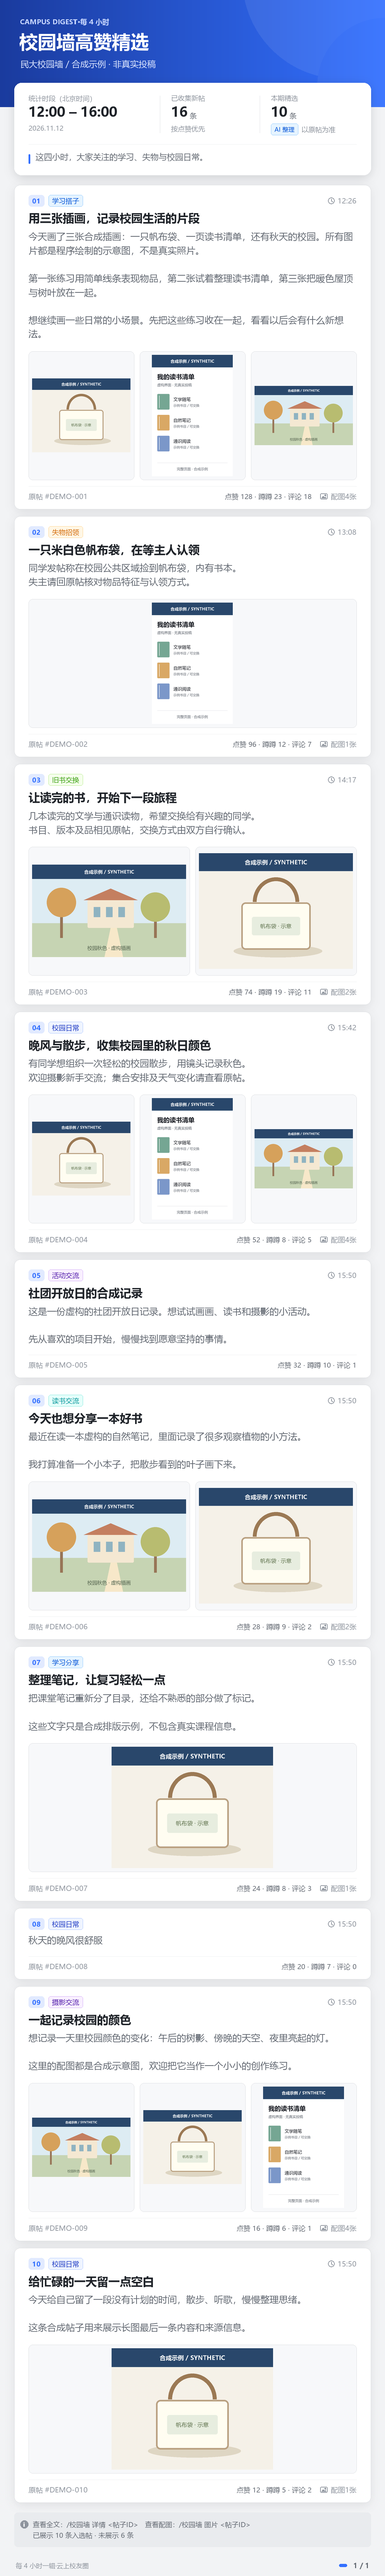
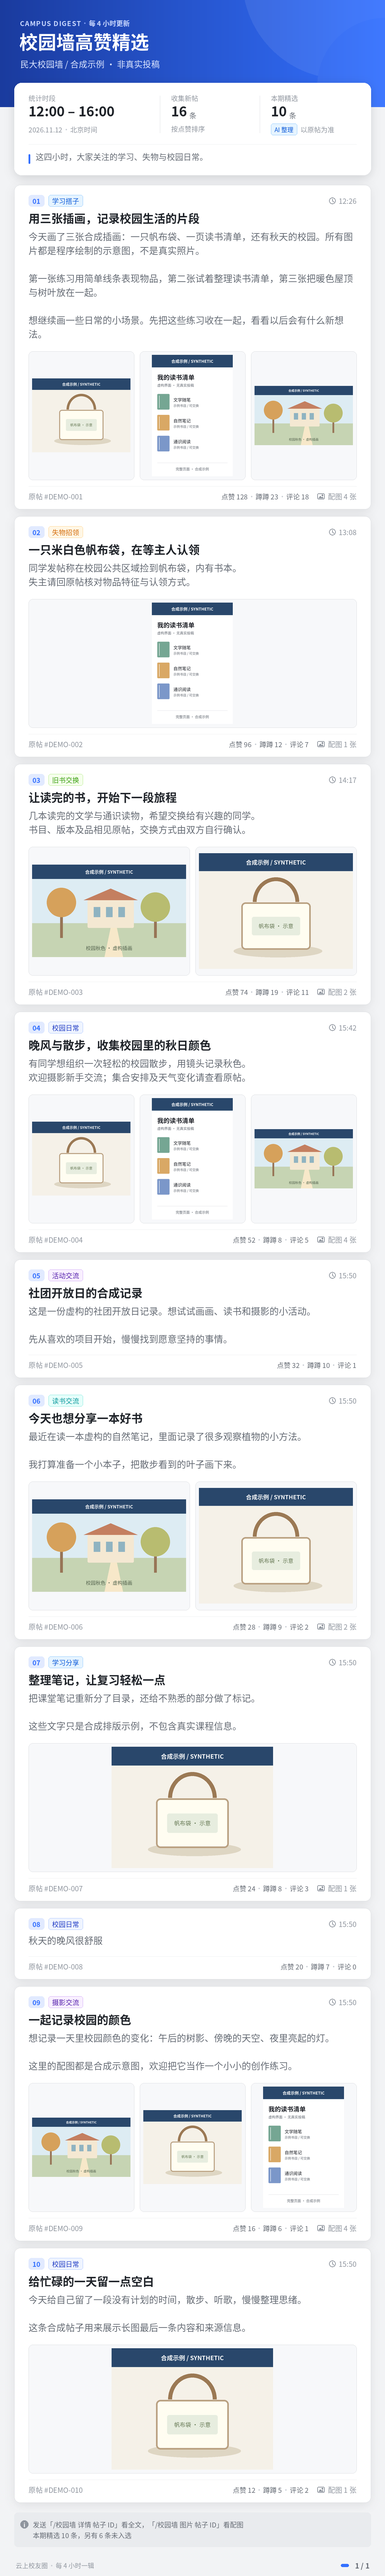
style: refine card typography and copy
- Draw " · " separators as small light dots with even gaps; the SC face
  renders every middle dot full-width
- Letter-space all-caps Latin labels; space CJK from digits/Latin
- Tighten labels and notices (按点赞排序, 「」 around commands, 另有 N 条
  未入选 only when posts were left out)
- Align command labels and commands in the mini-program code panel

diff --git a/cards.py b/cards.py
@@ -82,6 +82,17 @@ _TAG_KEYWORDS = (
     (("兼职", "实习", "招聘"), "cyan"),
 )
 _TAG_FALLBACK = ("geekblue", "cyan", "purple", "green", "blue")
+_SEP = " · "
+
+
+def _caps(text):
+    return text.isascii() and text.isupper() and len(text) > 1
+
+
+
+_SEP_WIDTH = 22  # 9px gap, 4px dot, 9px gap.
+_DOT = "#C9CDD4"
+_TRACKING = 1.5
 _AVATAR_COLORS = ("blue", "cyan", "green", "purple", "magenta", "orange", "geekblue", "volcano")
 _OPENING = frozenset("（【《〈「『〔［｛“‘([{«")
 _CLOSING = frozenset("，。！？；：、）】》〉」』〕］｝”’…,.!?;:)]}»")
@@ -424,6 +435,16 @@ class _Metrics:
     def length(self, text, size, bold=False):
         return self.font(size, bold).getlength(text) / _SCALE
 
+    def tracked(self, text, size, bold=False):
+        """Latin caps get letter spacing; CJK keeps the font's own spacing."""
+        if not _caps(text):
+            return self.length(text, size, bold)
+        return self.length(text, size, bold) + _TRACKING * max(0, len(text) - 1)
+
+    def meta_length(self, text, size, bold=False):
+        parts = text.split(_SEP)
+        return sum(self.tracked(part, size, bold) for part in parts) + _SEP_WIDTH * (len(parts) - 1)
+
 
 class _Canvas(_Metrics):
     """Native-resolution long canvas with anti-aliased text and local shadows."""
@@ -501,12 +522,40 @@ class _Canvas(_Metrics):
         """Initial-letter avatar; a 4x mask keeps the circle edge smooth at 1x."""
         initial = name[:1] or "同"
         _, _, color = _TAGS[_AVATAR_COLORS[sum(map(ord, name)) % len(_AVATAR_COLORS)]]
-        size = 2 * radius
+        self.disc(cx, cy, 2 * radius, color)
+        self.text((cx, cy), initial, round(radius * 0.95), "#FFFFFF", bold=True, anchor="mm")
+
+    def disc(self, cx, cy, diameter, color):
+        """Anti-aliased small circle: 4x mask, downsampled, at native scale."""
+        size = max(2, round(diameter))
+        x, y = round(cx - size / 2), round(cy - size / 2)
         with Image.new("L", (size * 4, size * 4), 0) as big:
             ImageDraw.Draw(big).ellipse((0, 0, size * 4 - 1, size * 4 - 1), fill=255)
             with big.resize((size, size), Image.LANCZOS) as mask:
-                self.image.paste(color, (cx - radius, cy - radius, cx + radius, cy + radius), mask)
-        self.text((cx, cy), initial, round(radius * 0.95), "#FFFFFF", bold=True, anchor="mm")
+                self.image.paste(color, (x, y, x + size, y + size), mask)
+
+    def meta(self, xy, text, size, fill=_TEXT_3, bold=False, anchor="lm", dot=_DOT):
+        """Metadata row: " · " separators become small drawn dots with even gaps.
+
+        The SC face draws every middle dot full-width, which spaces rows unevenly.
+        ``anchor`` is "lm", "mm" or "rm"; segments are drawn left to right.
+        """
+        x, y = xy
+        width = self.meta_length(text, size, bold)
+        x -= {"l": 0, "m": width / 2, "r": width}[anchor[0]]
+        for index, part in enumerate(text.split(_SEP)):
+            if index:
+                self.disc(x + _SEP_WIDTH / 2, y + 1, 4, dot)
+                x += _SEP_WIDTH
+            if _caps(part):
+                for char in part:
+                    self.text((x, y), char, size, fill, bold, "lm")
+                    x += self.length(char, size, bold) + _TRACKING
+                x -= _TRACKING
+            else:
+                self.text((x, y), part, size, fill, bold, "lm")
+                x += self.length(part, size, bold)
+        return width
 
     def chip(self, x, cy, label, background=_BRAND_SOFT, ink=_BRAND, size=16):
         width = self.length(label, size, True) + 14
@@ -615,16 +664,16 @@ def _item_layout(item, canvas, start, number, gallery_count):
     images = ""
     if item["image_count"]:
         count = str(item["image_count"]) if item["image_count"] < 1000 else "999+"
-        images = f"配图{count}张"
+        images = f"配图 {count} 张"
     metrics = f"点赞 {_metric_count(item.get('like_count'))} · 蹲蹲 {_metric_count(item.get('trace_count'))}"
     # Reserve the image counter, its icon and a 24px gap before fitting metrics.
     metrics_inset = canvas.length(images, 20) + 30 + 24 if images else 0
-    source_width = min(520, 920 - metrics_inset - canvas.length(metrics, 19) - 24)
+    source_width = min(520, 920 - metrics_inset - canvas.meta_length(metrics, 19) - 24)
     source = canvas.wrap("原帖 #" + clean(item["id"], 128).replace("\n", " "),
                          20, source_width, 1)[0]
     if item.get("comment_count") is not None:
         with_comments = metrics + f" · 评论 {_metric_count(item['comment_count'])}"
-        if canvas.length(with_comments, 19) <= 920 - metrics_inset - canvas.length(source, 20) - 24:
+        if canvas.meta_length(with_comments, 19) <= 920 - metrics_inset - canvas.length(source, 20) - 24:
             metrics = with_comments
     when = canvas.wrap(_published(item["published_at"], start), 20, 300, 1)[0]
     title_height = 44 * len(title) + 10 if title else 0
@@ -686,7 +735,7 @@ def _draw_item(canvas, item, y, gallery):
     canvas.line(((left, row), (right, row)), _DIVIDER)
     row += 16 + 12
     canvas.text((left, row), item["source"], 20, _TEXT_3, anchor="lm")
-    canvas.text((right - item["metrics_inset"], row), item["metrics"], 19, _TEXT_2, anchor="rm")
+    canvas.meta((right - item["metrics_inset"], row), item["metrics"], 19, _TEXT_2, anchor="rm")
     if item["images"]:
         canvas.text((right, row), item["images"], 20, _TEXT_3, anchor="rm")
         canvas.picture(right - canvas.length(item["images"], 20) - 20, row, _TEXT_3)
@@ -708,7 +757,7 @@ def _band(canvas, height):
 
 def _header(canvas, digest, hours):
     _band(canvas, 300)
-    canvas.text((56, 52), f"CAMPUS DIGEST·每 {hours} 小时", 19, "#C9D8FF", bold=True)
+    canvas.meta((56, 64), f"CAMPUS DIGEST · 每 {hours} 小时更新", 19, "#C9D8FF", bold=True, dot="#7F9CF5")
     heading = "校园墙高赞精选" if digest.get("ranking") == "likes" else "校园墙新帖速览"
     canvas.text((54, 92), heading, 52, "#FFFFFF", bold=True)
     community = canvas.wrap(canvas.fonts.clean(digest["community"], 256).replace("\n", " "), 24, 960, 1)[0]
@@ -727,18 +776,18 @@ def _overview(canvas, digest, start, end, shown, intro, y):
     for column in columns[1:]:
         canvas.line(((column - 32, y + 36), (column - 32, y + 140)), _DIVIDER, 2)
     ranked = digest.get("ranking") == "likes"
-    labels = ("统计时段（北京时间）", "已收集新帖", "本期精选" if ranked else "本期展示")
+    labels = ("统计时段", "收集新帖", "本期精选" if ranked else "本期展示")
     for column, label in zip(columns, labels):
         canvas.text((column, y + 34), label, 19, _TEXT_3)
     canvas.text((columns[0], y + 66), f"{start:%H:%M} – {end:%H:%M}", 38, _TEXT, bold=True)
-    canvas.text((columns[0], y + 120), date_label, 19, _TEXT_3)
+    canvas.meta((columns[0], y + 130), date_label + " · 北京时间", 19, _TEXT_3)
     total = str(digest["total"]) if digest["total"] < 1_000_000 else "999999+"
     for column, value in ((columns[1], total), (columns[2], str(shown))):
         canvas.text((column, y + 66), value, 38, _TEXT, bold=True)
         canvas.text((column + canvas.length(value, 38, True) + 6, y + 100), "条", 20, _TEXT_2, anchor="ls")
-    order = "按发布时间去重"
+    order = "按发布时间排序"
     if ranked:
-        order = "按已收集帖点赞优先" if digest["scan_limited"] else "按点赞优先"
+        order = "按点赞排序（已收集部分）" if digest["scan_limited"] else "按点赞排序"
     canvas.text((columns[1], y + 120), order, 19, _TEXT_3)
     if digest["mode"] == "ai":
         mode, colors = "AI 整理", _TAGS["blue"]
@@ -792,9 +841,10 @@ def _page(digest, start, end, items, fonts, shown, omitted):
     intro = probe.wrap(intro_text, 23, 880, 2)
     layouts = [_item_layout(item, probe, start, i + 1, _gallery_count(item))
                for i, item in enumerate(items)]
-    notice = probe.wrap("查看全文：/校园墙 详情 <帖子ID>　查看配图：/校园墙 图片 <帖子ID>",
+    notice = probe.wrap("发送「/校园墙 详情 帖子 ID」看全文，「/校园墙 图片 帖子 ID」看配图",
                         19, 900, 2)
-    notice.append(f"已展示 {shown} 条入选帖 · 未展示 {_metric_count(omitted)} 条")
+    if omitted:
+        notice.append(f"本期精选 {shown} 条，另有 {_metric_count(omitted)} 条未入选")
     overview_top = 232
     overview = 172 + 24 + 36 * len(intro) + 26
     top = overview_top + overview + 28
@@ -841,7 +891,7 @@ def _page(digest, start, end, items, fonts, shown, omitted):
         for i, line in enumerate(notice):
             canvas.text((92, y + 18 + 15 + 30 * i), line, 19, _TEXT_2, anchor="lm")
         y += note + 22 + 30
-        canvas.text((44, y), f"每 {hours} 小时一辑·云上校友圈", 18, _TEXT_3, anchor="lm")
+        canvas.meta((44, y), f"云上校友圈 · 每 {hours} 小时一辑", 18, _TEXT_3)
         label = "1 / 1"
         canvas.text((1036, y), label, 20, _TEXT_2, bold=True, anchor="rm")
         dots = 1036 - canvas.length(label, 20, True) - 18
@@ -1009,7 +1059,7 @@ def _detail_page(metadata, lines, fonts, page_index, pages, gallery, qr=None):
     canvas = _Canvas(fonts, height)
     try:
         _band(canvas, 240)
-        canvas.text((56, 44), "帖子全文·POST DETAIL", 19, "#C9D8FF", bold=True)
+        canvas.meta((56, 56), "POST DETAIL · 帖子全文", 19, "#C9D8FF", bold=True, dot="#7F9CF5")
         canvas.text((54, 80), metadata["community"], 44, "#FFFFFF", bold=True)
         canvas.shadow((40, _DETAIL_CARD_TOP, 1040, bottom), 20, 30)
         canvas.box((40, _DETAIL_CARD_TOP, 1040, bottom), 20, _SURFACE)
@@ -1035,7 +1085,7 @@ def _detail_page(metadata, lines, fonts, page_index, pages, gallery, qr=None):
         row += 28
         canvas.line(((left, row), (right, row)), _DIVIDER)
         row += 20 + 14
-        canvas.text((left, row), metadata["metrics"], 20, _TEXT_2, anchor="lm")
+        canvas.meta((left, row), metadata["metrics"], 20, _TEXT_2)
         if metadata["images"]:
             canvas.text((right, row), metadata["images"], 20, _TEXT_3, anchor="rm")
             canvas.picture(right - canvas.length(metadata["images"], 20) - 20, row, _TEXT_3)
@@ -1064,8 +1114,9 @@ def _detail_page(metadata, lines, fonts, page_index, pages, gallery, qr=None):
             text_y = top + (_DETAIL_QR_PANEL - block) // 2
             canvas.text((left + 32, text_y), "微信扫码打开原帖", 30, _TEXT, bold=True)
             canvas.text((left + 32, text_y + 54), "长按识别小程序码，查看评论与互动", 20, _TEXT_2)
-            for index, line in enumerate(metadata["commands"]):
-                canvas.text((left + 32, text_y + 106 + 30 * index), line, 19, _TEXT_3)
+            for index, (label, command) in enumerate(metadata["commands"]):
+                canvas.text((left + 32, text_y + 106 + 30 * index), label, 19, _TEXT_3)
+                canvas.text((left + 104, text_y + 106 + 30 * index), command, 19, _TEXT_2)
             row = bottom + 28
         else:
             row = bottom + 24
@@ -1076,7 +1127,7 @@ def _detail_page(metadata, lines, fonts, page_index, pages, gallery, qr=None):
                 canvas.text((92, row + 33 + index * 30), line, 19, _TEXT_2, anchor="lm")
             row += note + 28
         row += 28
-        canvas.text((44, row), "云上校友圈·帖子全文", 18, _TEXT_3, anchor="lm")
+        canvas.meta((44, row), "云上校友圈 · 帖子全文", 18, _TEXT_3)
         canvas.text((1036, row), f"{page_index + 1} / {pages}", 20, _TEXT_2, bold=True, anchor="rm")
         return canvas.finish(height)
     except Exception:
@@ -1122,15 +1173,15 @@ def render_post_detail(post: dict, community, output_dir, font_path="") -> list[
         if record.get("comment_count") is not None:
             metrics += f" · 评论 {_metric_count(record['comment_count'])}"
         count = record["image_count"]
-        images = f"配图{count if count < 1000 else '999+'}张" if count else ""
+        images = f"配图 {count if count < 1000 else '999+'} 张" if count else ""
         category = wrap(fonts.clean(record.get("category"), 64).replace("\n", " "), 19, 300, 1)[0]
         metadata = dict(
             source=wrap("原帖 #" + source_id, 20, 380, 1)[0],
             community=wrap(fonts.clean(community, 256).replace("\n", " ") or "校园墙", 44, 960, 1, True)[0],
             category=category, when=when, metrics=metrics, images=images,
-            notice=wrap(f"查看原帖：/校园墙 详情 {source_id}　查看配图：/校园墙 图片 {source_id}", 19, 900, 2),
-            commands=[wrap(f"全文  /校园墙 详情 {source_id}", 19, 560, 1)[0],
-                      wrap(f"配图  /校园墙 图片 {source_id}", 19, 560, 1)[0]])
+            notice=wrap(f"发送「/校园墙 详情 {source_id}」看全文，「/校园墙 图片 {source_id}」看配图", 19, 900, 2),
+            commands=[("看全文", wrap(f"/校园墙 详情 {source_id}", 19, 480, 1)[0]),
+                      ("看配图", wrap(f"/校园墙 图片 {source_id}", 19, 480, 1)[0])])
         probe = _Metrics(fonts)
         comments = record.get("comments") if isinstance(record.get("comments"), list) else []
         metadata["comments"] = _comment_layout(probe, comments, 920, 6, 3)

diff --git a/tests/test_cards.py b/tests/test_cards.py
@@ -158,7 +158,7 @@ class CardsTests(unittest.TestCase):
         self.assertEqual(len(paths), 1)
         self.assertEqual(body, post["text"].split("\n"))
         self.assertEqual(len(loaded), 3)
-        self.assertIn("配图4张", text)
+        self.assertIn("配图 4 张", text)
         for image in loaded:
             with self.assertRaises(ValueError):
                 image.getpixel((0, 0))
@@ -348,7 +348,7 @@ class CardsTests(unittest.TestCase):
                 self.assertLessEqual(im.height, 16000)
             self.assertLess(Path(path).stat().st_size, 2_000_000)
         for expected in ("本期展示", "12:00", "16:00", "北京时间", "AI",
-                         "12", "8", "可能还有遗漏", "配图2张", "1 / 1"):
+                         "12", "8", "可能还有遗漏", "配图 2 张", "1 / 1"):
             self.assertIn(expected, text)
         for i in range(1, 9):
             self.assertEqual(text.count(f"DEMO-{i:03}"), 1)
@@ -363,8 +363,8 @@ class CardsTests(unittest.TestCase):
         paths, text = self.render_with_text(digest)
         self.assertEqual(len(paths), 1)
         self.assertEqual(digest, before)
-        for expected in ("校园墙高赞精选", "本期精选", "按点赞优先", "每 4 小时",
-                         "点赞 128 · 蹲蹲 12 · 评论 7", "1 / 1"):
+        for expected in ("校园墙高赞精选", "本期精选", "按点赞排序", "每 4 小时更新",
+                         "点赞 128\n蹲蹲 12\n评论 7", "1 / 1"):
             self.assertIn(expected, text)
         self.assertNotIn("校园墙新帖速览", text)
         self.assertNotIn("可能还有遗漏", text)
@@ -375,7 +375,7 @@ class CardsTests(unittest.TestCase):
 
     def test_partial_ranked_digest_describes_incomplete_collection_without_disclaimers(self):
         _, text = self.render_with_text(fixture(4, ranking="likes", scan_limited=True))
-        self.assertIn("按已收集帖点赞优先", text)
+        self.assertIn("按点赞排序（已收集部分）", text)
         self.assertIn("仅展示已收集的新帖，可能还有遗漏", text)
         for banned in ("扫描未完成", "未经核实", "图片未识别", "附图未识别"):
             self.assertNotIn(banned, text)
@@ -390,7 +390,8 @@ class CardsTests(unittest.TestCase):
         _, text = self.render_with_text(digest)
         for expected in ("点赞 — · 蹲蹲 0", "点赞 0 · 蹲蹲 — · 评论 0",
                          "点赞 1.2万 · 蹲蹲 1亿 · 评论 9.9万", "点赞 — · 蹲蹲 —"):
-            self.assertIn(expected, text)
+            # Separators are drawn dots, so segments appear as consecutive draws.
+            self.assertIn(expected.replace(" · ", "\n"), text)
         self.assertNotIn("评论 —", text)
         self.assertNotIn("None", text)
 
@@ -402,9 +403,9 @@ class CardsTests(unittest.TestCase):
                         trace_count=10 ** 100, comment_count=10 ** 100)
         positions = []
         paths, text = self.render_with_text(digest, positions)
-        self.assertEqual(text.count("点赞 9999.9万 · 蹲蹲 999亿+"), 4)
+        self.assertEqual(text.count("点赞 9999.9万\n蹲蹲 999亿+"), 4)
         self.assertEqual(text.count("评论 999亿+"), 1, "Omit comments when the source needs the space")
-        self.assertEqual(text.count("配图999+张"), 4)
+        self.assertEqual(text.count("配图 999+ 张"), 4)
         footers = [(label, box) for label, box in positions
                    if label.startswith(("原帖 #", "点赞 ", "配图"))]
         self.assertEqual(len(footers), 12)
@@ -496,7 +497,7 @@ class CardsTests(unittest.TestCase):
                 paths, text = self.render_with_text(digest)
                 self.assertEqual(digest, before)
                 self.assertEqual(photo.read_bytes(), original)
-                self.assertIn("配图3张", text)
+                self.assertIn("配图 3 张", text)
                 with Image.open(paths[0]) as rendered:
                     boxes = []
                     for color in colors:
@@ -606,8 +607,8 @@ class CardsTests(unittest.TestCase):
             self.assertEqual(text.count(f"原帖 #DEMO-{i + 1:03}"), 1)
         self.assertNotIn("DEMO-011", text)
         self.assertLess(text.index("DEMO-009"), text.index("DEMO-010"))
-        self.assertIn("已展示 10 条入选帖 · 未展示 359 条", text)
-        self.assertNotIn("未展示 0 条", text)
+        self.assertIn("本期精选 10 条，另有 359 条未入选", text)
+        self.assertNotIn("另有 0 条", text)
         for page, path in enumerate(paths):
             with Image.open(path) as rendered:
                 self.assertEqual(rendered.width, 1080)
@@ -652,7 +653,7 @@ class CardsTests(unittest.TestCase):
             with self.assertRaises(ValueError):
                 previous.getpixel((0, 0))
         self.assertEqual(len(paths), 1)
-        self.assertIn("已展示 10 条入选帖 · 未展示 3 条", text)
+        self.assertIn("本期精选 10 条，另有 3 条未入选", text)
         self.assertEqual(text.count("原文节选"), 10)
         self.assertNotIn("完整原文末尾", text)
         self.assertNotIn("DEMO-011", text)
@@ -729,8 +730,8 @@ class CardsTests(unittest.TestCase):
 
     def test_interval_labels_follow_six_and_twenty_four_hour_windows(self):
         for end, masthead, footer in (
-            ("2026-11-12T10:00:00+00:00", "CAMPUS DIGEST·每 6 小时", "每 6 小时一辑"),
-            ("2026-11-13T04:00:00+00:00", "CAMPUS DIGEST·每 24 小时", "每 24 小时一辑"),
+            ("2026-11-12T10:00:00+00:00", "每 6 小时更新", "每 6 小时一辑"),
+            ("2026-11-13T04:00:00+00:00", "每 24 小时更新", "每 24 小时一辑"),
         ):
             with self.subTest(end=end):
                 _, text = self.render_with_text(fixture(1, window_end=end))
